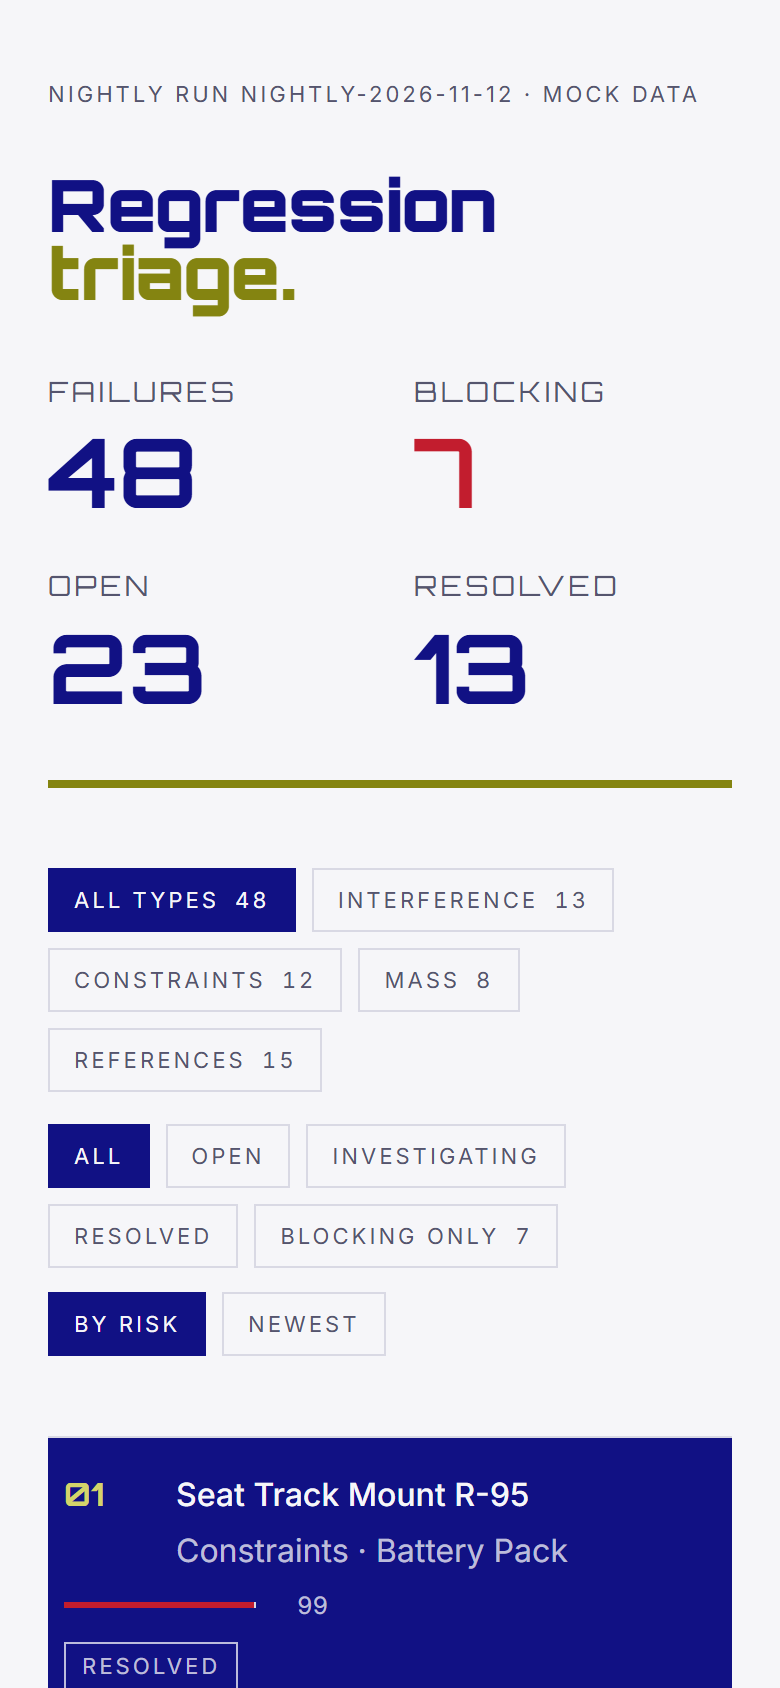
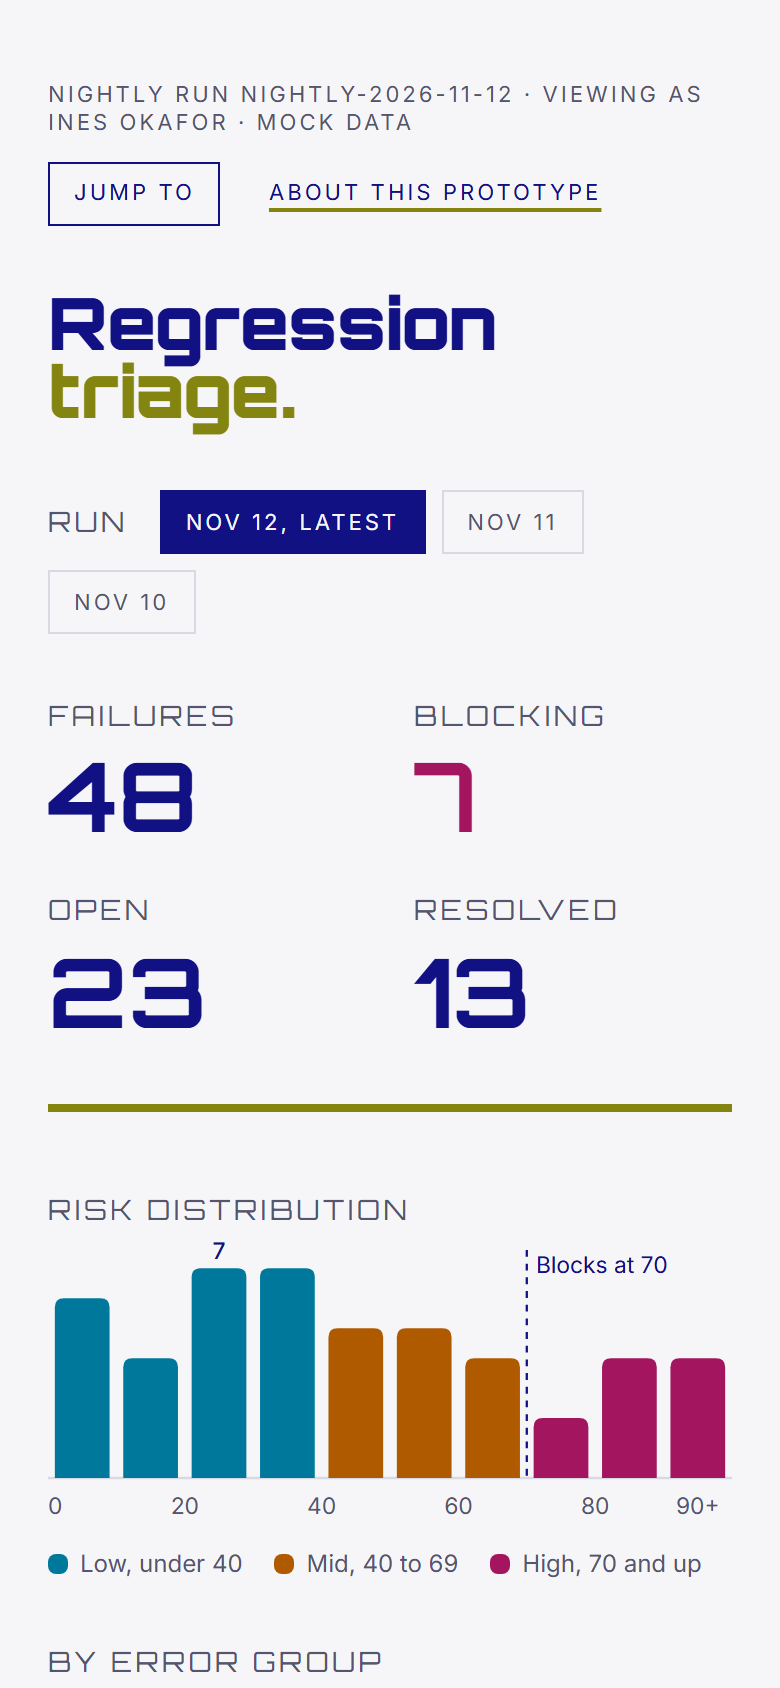
Final README, screenshots, and small mobile polish
- README: final description, palette with contrast ratios, type scale,
  architecture (store, query layer, URL sync), Windows PowerShell setup
  and test commands, testing summary, and known limits
- New desktop (1440px) and mobile (390px) screenshots, plus the mobile
  bottom sheet, replacing the old ones
- Screenshot script waits for fonts and animations to settle
- Keyboard shortcut hint hidden on the palette trigger below 640px

diff --git a/src/components/CommandPalette.tsx b/src/components/CommandPalette.tsx
@@ -132,7 +132,7 @@ export function CommandPalette({ failures, onJump }: CommandPaletteProps) {
           className="group label-micro flex h-8 items-center gap-3 border border-primary px-3 text-primary hover:bg-primary hover:text-paper"
         >
           Jump to
-          <kbd className="font-sans text-muted group-hover:text-paper">{shortcut}</kbd>
+          <kbd className="hidden font-sans text-muted group-hover:text-paper sm:inline">{shortcut}</kbd>
         </button>
       </Dialog.Trigger>
 

diff --git a/README.md b/README.md
@@ -2,65 +2,175 @@
 
 A portfolio prototype for one task: an engineer checks last night's regression run and decides which failures block the next design release.
 
+![Desktop view at 1440px](docs/screenshot-desktop.png)
+
 ## What this is
 
 Every night, an automated regression run checks a vehicle design model for problems: parts that collide, constraints that broke, mass over budget, links to outdated parts. A run can produce dozens of failures. Most are noise or already known. A few block the next design release, and someone has to find them before the morning review.
 
-This prototype is for the design engineer who does that first pass. Version 1 ranks failures by risk, filters them by error type and status, and flags the ones that block a release. It shows a suggested next step for each one and lets the engineer move it to investigating or resolved. Status changes save at once and roll back if the server rejects them.
+This prototype is for the design engineer who does that first pass. Version 1 ranks failures by risk, filters them by error type, status, and owner, and flags the ones that block a release. For each failure it shows a suggested next step, a status history, and a note field, and the engineer can assign it, set a due date, and move it to investigating or resolved. Engineers can switch between the last three nightly runs, share a filtered view by URL, and jump anywhere with Ctrl+K.
 
-Out of scope on purpose: real authentication, a real API, editing the design model, and notifications. **All data is mock.** Part names, assemblies, engineers, and run IDs are invented, and nothing comes from a real vehicle program or internal system.
+Out of scope on purpose: real authentication, a real API, editing the design model, notifications, and syncing notes between devices. **All data is mock.** Part names, assemblies, engineers, and run IDs are invented, and nothing comes from a real vehicle program or internal system.
 
 ## Why it's built this way
 
-- **Pure functions for triage logic.** Filtering, sorting, and the "blocking" rule live in `src/lib/triage.ts` with no React, so they are easy to test and reuse.
-- **Server state and UI state are separate.** TanStack Query owns the failure data. Zustand owns what the user is looking at. Neither one copies the other.
-- **Optimistic updates with rollback.** A status change shows at once, because waiting on a slow nightly-run service would break the flow of triage.
+- **Pure functions for triage logic.** Filtering, sorting, bucketing, and the "blocking" and "overdue" rules live in `src/lib/` with no React, so they are easy to test and reuse.
+- **Server state and UI state are separate.** TanStack Query owns failure data. Zustand owns what the user is looking at. Neither one copies the other.
+- **The store is the source of truth, and the URL mirrors it.** Components never read the URL. A small sync module keeps the two in step, so views can be shared without URL logic spreading through the app.
+- **Optimistic updates with rollback.** A change shows at once, because waiting on a slow nightly-run service would break the flow of triage.
 - **Seeded mock data.** The same seed always gives the same run, so tests and screenshots are stable.
 - **Tokens as the source of truth.** Colors, fonts, and the type scale live in `tokens.json`, with a test that keeps the CSS in sync and a script that checks contrast.
-- **Keyboard first.** Engineers triage dozens of rows, so J, K, and the arrow keys move through the list.
+- **Keyboard first.** Engineers triage dozens of rows, so J, K, the arrow keys, and a command palette cover the main paths.
+- **No chart library.** Two small charts do not justify a dependency, and plain SVG makes the accessible version easy to control.
 
-## Run it
+## Set up and test (Windows PowerShell)
 
-```bash
+Tested with Node 24 and npm 11. Run these from the project folder.
+
+```powershell
 npm install
-npm run dev              # local dev server
-npm test                 # unit and component tests (Vitest + Testing Library)
-npm run build            # type-check and production build
-E2E_CHROME_PATH=/path/to/chrome npm run test:e2e   # Playwright (omit the variable if Playwright's own Chromium is installed)
+npx playwright install chromium   # once, for the e2e tests
+
+npm run dev                # local dev server at http://localhost:5173
+npm test                   # unit and component tests (Vitest + Testing Library)
+npm run build              # type-check and production build
+npm run contrast           # WCAG contrast report for every color pair
+npm run test:e2e           # Playwright, including axe accessibility checks
+
+npm run storybook          # component workshop at http://localhost:6006
+npm run build-storybook    # static Storybook in storybook-static/
+npm run test:stories       # axe on every story (run build-storybook first)
+
+npm run screenshots        # retake docs/ screenshots (run build first)
 ```
 
-## Stack
+`npm test` and the Storybook scripts go through `scripts/run.mjs`. VS Code's terminal reports the folder as `c:\...` with a lowercase drive letter, which breaks Vitest (every suite fails with "failed to find the current suite") and Storybook (every story fails to load). The script starts the tool from `C:\...` instead. Use the npm scripts, not `npx vitest` directly.
 
-- React 19, TypeScript, Vite
-- Tailwind CSS v4 with tokens mirrored from `src/styles/tokens.json`
-- TanStack Query for server state, with an optimistic status update and rollback
-- Zustand for UI state (filters, sort, selection)
-- Motion for list, bar, and panel animation
-- Vitest, Testing Library, and Playwright
-
-## Structure
-
-- `src/api/`: mock API and query hooks
-- `src/data/`: seeded mock data generator
-- `src/lib/triage.ts`: pure filter, sort, and summary functions (unit tested)
-- `src/store/`: Zustand store
-- `src/components/`: header, filters, index list, risk bar, detail panel
-- `e2e/`: Playwright smoke tests
+On macOS or Linux the same commands work in any shell.
 
 ## Controls
 
 - Click a row, or use the arrow keys or J and K, to move through the list.
-- "Blocking only" shows high-risk failures that aren't resolved.
+- Ctrl+K (Cmd+K on a Mac) opens the command palette: jump to a failure, change a filter, or switch runs.
+- "Blocking only" shows high-risk failures that are not resolved. "Mine" shows failures assigned to the current user (Ines Okafor, set in `src/data/team.ts`).
+- On screens narrower than 1024px, the detail opens in a bottom sheet. Drag the handle down or press Escape to close it.
 
-## Design notes
+## Design
 
-Brand colors are navy `#111184` (primary) and olive `#848411` (accent). Run `npm run contrast` to check every text and background pair.
+### Surface
 
-**Surface: paper background, navy type, olive accents.** This is a reading tool. An engineer scans 48 rows, compares risk bars, and reads suggested actions, so the bulk of the screen has to be comfortable for small text. Navy on paper is 13.55:1, and the three risk colors all pass 4.5:1 on paper, so they can label text, not just fill bars. A navy background would put the risk colors and olive on a dark surface where they lose contrast (olive on navy is under 4.5:1), and it would make the dense list heavier to read. Olive measures 3.68:1 on paper, so it only appears at display size ("triage." in the header), as fills (the rule under the header), and as the focus ring. On navy surfaces, such as the selected row, a lighter olive (`accent-soft`, 9.34:1) takes its place.
+**Paper background, navy type, olive accents.** This is a reading tool. An engineer scans 48 rows, compares risk bars, and reads suggested actions, so the bulk of the screen has to be comfortable for small text. Navy on paper is 13.55:1, and the three risk colors all pass 4.5:1 on paper, so they can label text, not just fill bars. A navy background would put the risk colors and olive on a dark surface where they lose contrast (olive on navy is under 4.5:1), and it would make the dense list heavier to read. Olive measures 3.68:1 on paper, so it only appears at display size ("triage." in the header), as fills (the rule under the header), and as the focus ring. On navy surfaces, such as the selected row, a lighter olive (`accent-soft`, 9.34:1) takes its place.
 
-## Not yet built
+### Palette
 
-- Storybook for the component library
-- Real API and auth
-- Style Dictionary to generate CSS from `tokens.json` automatically
-- A bottom sheet for the detail panel on mobile (currently it scrolls into view below the list)
+| Token | Value | Use |
+| --- | --- | --- |
+| `primary` | `#111184` | Brand navy. Text, display type, solid surfaces, borders |
+| `accent` | `#848411` | Brand olive. Display text 24px and up, fills, focus ring. Never small text |
+| `accent-soft` | `#d4d46a` | Olive for small accents and focus on navy surfaces |
+| `paper` | `#f6f6f9` | Page background |
+| `muted` | `#55556e` | Secondary text and labels |
+| `line` | `#d9d9e4` | Hairlines and bar tracks (decorative) |
+| `risk.high` | `#a3165f` | Risk 70 and up. Raspberry |
+| `risk.mid` | `#b05a00` | Risk 40 to 69. Burnt orange |
+| `risk.low` | `#00789c` | Risk under 40. Teal |
+
+The risk colors are kept away from olive in hue, as the brief asked. They were also run through a color-blindness check for the charts: the first set (crimson, amber-orange, green-teal) put high and mid risk only ΔE 2.7 apart for deuteranopia, which reads as the same color. The final set is ΔE 14.5 apart for deuteranopia and 18.3 apart for normal vision. Risk is never shown by color alone: rows show the score, and blocking failures carry a "Blocking" label.
+
+Contrast, from `npm run contrast` (20 of 20 pairs pass):
+
+| Foreground | Background | Kind | Ratio | Needs |
+| --- | --- | --- | --- | --- |
+| primary | paper | text | 13.55:1 | 4.5:1 |
+| muted | paper | text | 6.69:1 | 4.5:1 |
+| accent | paper | large text | 3.68:1 | 3:1 |
+| accent | paper | UI (focus ring, fills) | 3.68:1 | 3:1 |
+| paper | primary | text | 13.55:1 | 4.5:1 |
+| paper at 75% | primary | text | 7.99:1 | 4.5:1 |
+| accent-soft | primary | text and UI | 9.34:1 | 4.5:1 |
+| paper | accent | large text | 3.68:1 | 3:1 |
+| risk.high | paper | text and UI | 6.86:1 | 4.5:1 |
+| risk.mid | paper | text and UI | 4.52:1 | 4.5:1 |
+| risk.low | paper | text and UI | 4.67:1 | 4.5:1 |
+| risk.high | line (track) | UI | 5.29:1 | 3:1 |
+| risk.mid | line (track) | UI | 3.48:1 | 3:1 |
+| risk.low | line (track) | UI | 3.60:1 | 3:1 |
+| paper | risk.high | text (Overdue badge) | 6.86:1 | 4.5:1 |
+
+### Type scale
+
+Orbitron (400, 700, 900) for display, Inter (400, 500) for everything else. Both are bundled from `@fontsource`, Latin subset only, so the app makes no font requests at runtime. Orbitron is wide and hard to read small, so it never goes below 14px and is never used for paragraphs.
+
+| Token | Size | Font | Use |
+| --- | --- | --- | --- |
+| `display-xl` | 36px to 88px (fluid) | Orbitron 900 | Header title |
+| `stat` | 48px | Orbitron 700 | Header numbers |
+| `display-md` | 30px | Orbitron 700 | Detail title, empty and error headings |
+| `display-sm` | 24px | Orbitron 700 | List numbers, section headings |
+| `label` | 14px | Orbitron 400, uppercase | Section labels. The Orbitron floor |
+| `body-lg` | 18px | Inter 400 | Failure summary |
+| `body` | 16px | Inter 400 / 500 | Body copy, row titles |
+| `body-sm` | 14px | Inter 400 | Secondary text, buttons, form controls |
+| `caption` | 12px | Inter 400 | Timestamps, risk numbers |
+| `micro` | 11px | Inter 400, uppercase | Chips, status pills, metadata |
+
+The Orbitron spec link (figma.com/fonts/orbitron) could not be fetched while planning. `@fontsource/orbitron` is the same open-source family.
+
+## Architecture
+
+```
+URL query string  <── urlSync.ts ──>  triageStore (Zustand)   view: run, filters, sort, mine, selection
+                                            │
+                                            ▼ runId
+                                   TanStack Query  ['failures', runId]  ──>  mock API (src/api/failures.ts)
+                                            │                                     │ localStorage
+                                            ▼                                     ▼
+                                     App: filter + sort  ──>  list, charts, detail, palette
+                                            │
+                                            ▼
+                                   notesStore (Zustand persist)   history and notes per runId/failureId
+```
+
+**View store** (`src/store/triageStore.ts`). Holds what the user is looking at: run, group, status, sort, blocking only, mine, and the selected failure. It is not persisted, because the URL already carries it. `setRun` clears the selection, since failure IDs belong to a run.
+
+**URL sync** (`src/store/urlSync.ts`). `startUrlSync()` runs once in `main.tsx` before the first render, so a shared link opens the right view before anything auto-selects. It reads the query string into the store, writes store changes back, and applies the URL again on Back and Forward. Filter, sort, and run changes push a history entry, so Back undoes them. Selection changes replace the entry, so moving with J and K does not fill the history. Defaults are left out of the URL, and invalid values fall back to defaults. Example: `?run=NIGHTLY-2026-11-10&group=Mass&blocking=1&id=RT-015`.
+
+**Query layer** (`src/api/`). `useFailures(runId)` caches each run under `['failures', runId]`. `useUpdateFailure()` changes status, owner, or due date with an optimistic update: it patches the cache at once, rolls back on error, and refetches when it settles. Only a confirmed status change is written to the history. The mock API is the only file to replace for a real backend. It saves changes to localStorage so a reload behaves like a server.
+
+**Notes store** (`src/store/notesStore.ts`). Status history and notes, persisted with Zustand's `persist` middleware under `regression-triage:notes`, version 2, keyed `runId/failureId`. `migrateNotes` upgrades version 1 data (notes and history keyed by failure ID alone, history with only the new status) and drops data from unknown versions.
+
+**Other pieces.** `useDetailLayout` picks side panel, bottom sheet, or inline panel from the viewport and `prefers-reduced-motion`. Each region (list and detail) has its own error boundary and recovery action. `MotionConfig reducedMotion="user"` makes Motion honor the OS setting.
+
+## Structure
+
+- `src/api/`: mock API and query hooks
+- `src/data/`: seeded run generator, runs, and the fictional team
+- `src/lib/`: pure triage logic, dates, labels, command search, and sheet thresholds (all unit tested)
+- `src/store/`: view store, URL sync, and the persisted notes store
+- `src/hooks/`: media query and detail layout
+- `src/components/`: header, run switcher, charts, filters, list, detail panel and sheet, command palette, About panel, states
+- `src/styles/tokens.json`: design tokens
+- `scripts/`: contrast check, test launcher, README page, screenshots, story accessibility check
+- `e2e/`: Playwright tests, including axe checks
+- `.storybook/` and `*.stories.tsx`: Storybook
+
+## Testing
+
+- **Unit and component (Vitest):** 99 tests across triage logic, tokens, the stores, URL sync, persistence and migration, charts, the command palette, the bottom sheet, error boundaries, and the main app flows.
+- **End to end (Playwright, Chromium):** 17 tests covering triage, URL sync, the run switcher, the command palette, and the 390px bottom sheet (tap, drag to close, short drag snaps back, Escape, the reduced-motion fallback). Stable over three repeated runs.
+- **Accessibility:** axe runs in e2e on the main view, the detail panel, the open command palette, and the mobile sheet, and fails on any serious or critical violation. None were found, at any severity. `npm run test:stories` runs axe on all 18 stories, and all pass. `npm run contrast` checks the palette.
+
+![Mobile view at 390px](docs/screenshot-mobile.png) ![Mobile bottom sheet at 390px](docs/screenshot-mobile-sheet.png)
+
+## Known limits
+
+- **Mock backend only.** No real API or auth. Notes, history, and status changes live in this browser's localStorage and do not sync between devices or people.
+- **The version 1 notes format is invented.** Version 2 is the first version this app ever stored. Version 1 is a plausible earlier shape, written so the migration path is real and tested.
+- **"Overdue" uses the real clock.** Seeded due dates fall around November 12, 2026, so the further today is from that date, the more seeded failures show as overdue.
+- **Charts show the whole run**, not the filtered list.
+- **The About panel links to a generated `readme.html`**, built from this file, rather than to a repository URL, because there is no public repo yet.
+- **Not verified:** a manual screen reader pass (NVDA, VoiceOver), Firefox and Safari (e2e runs in Chromium only), and drag-to-close on a real touch device (tested with emulated pointer drags in Chromium).
+- **No dark mode.**
+- **The Storybook test addon is not installed**, to keep `npm test` on its current Vitest setup. Story accessibility is checked with `npm run test:stories` instead. Storybook's own build prints a chunk-size warning for its bundled axe and docs code. The app build does not.
+- **Running Vitest or Storybook with `npx` from a terminal that reports a lowercase drive letter still fails.** Use the npm scripts.
+- **Style Dictionary is not set up.** `tokens.json` and the `@theme` block are kept in sync by hand, guarded by `src/styles/tokens.test.ts`.
